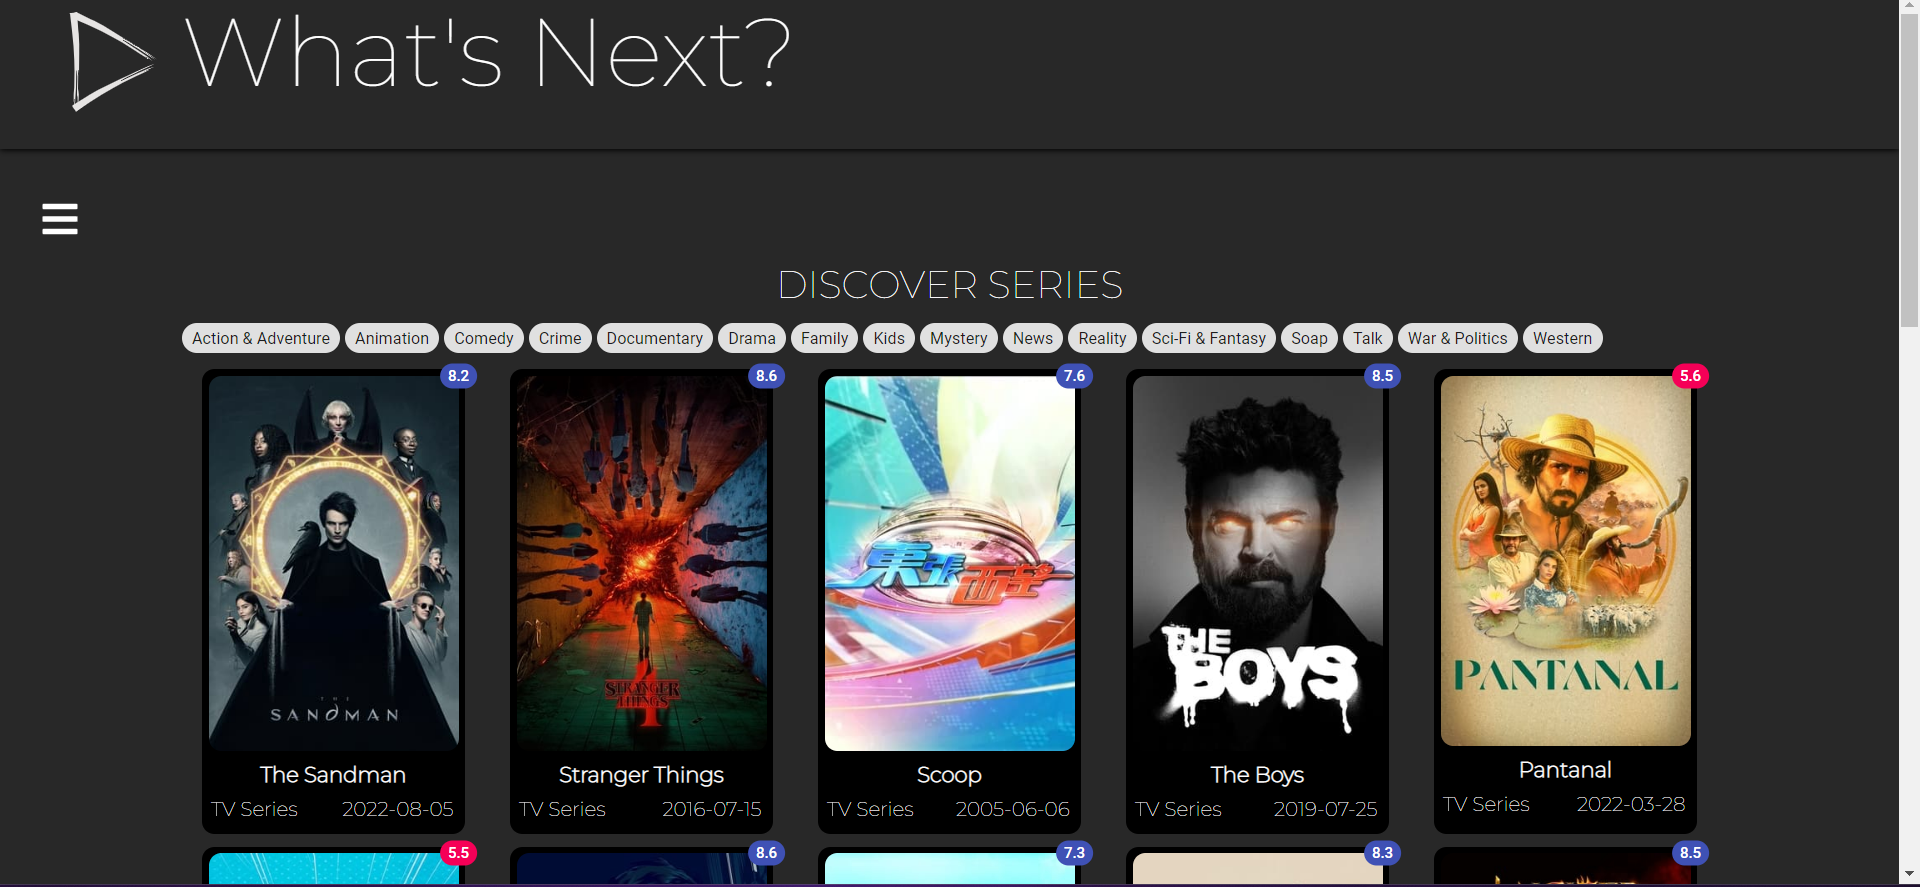
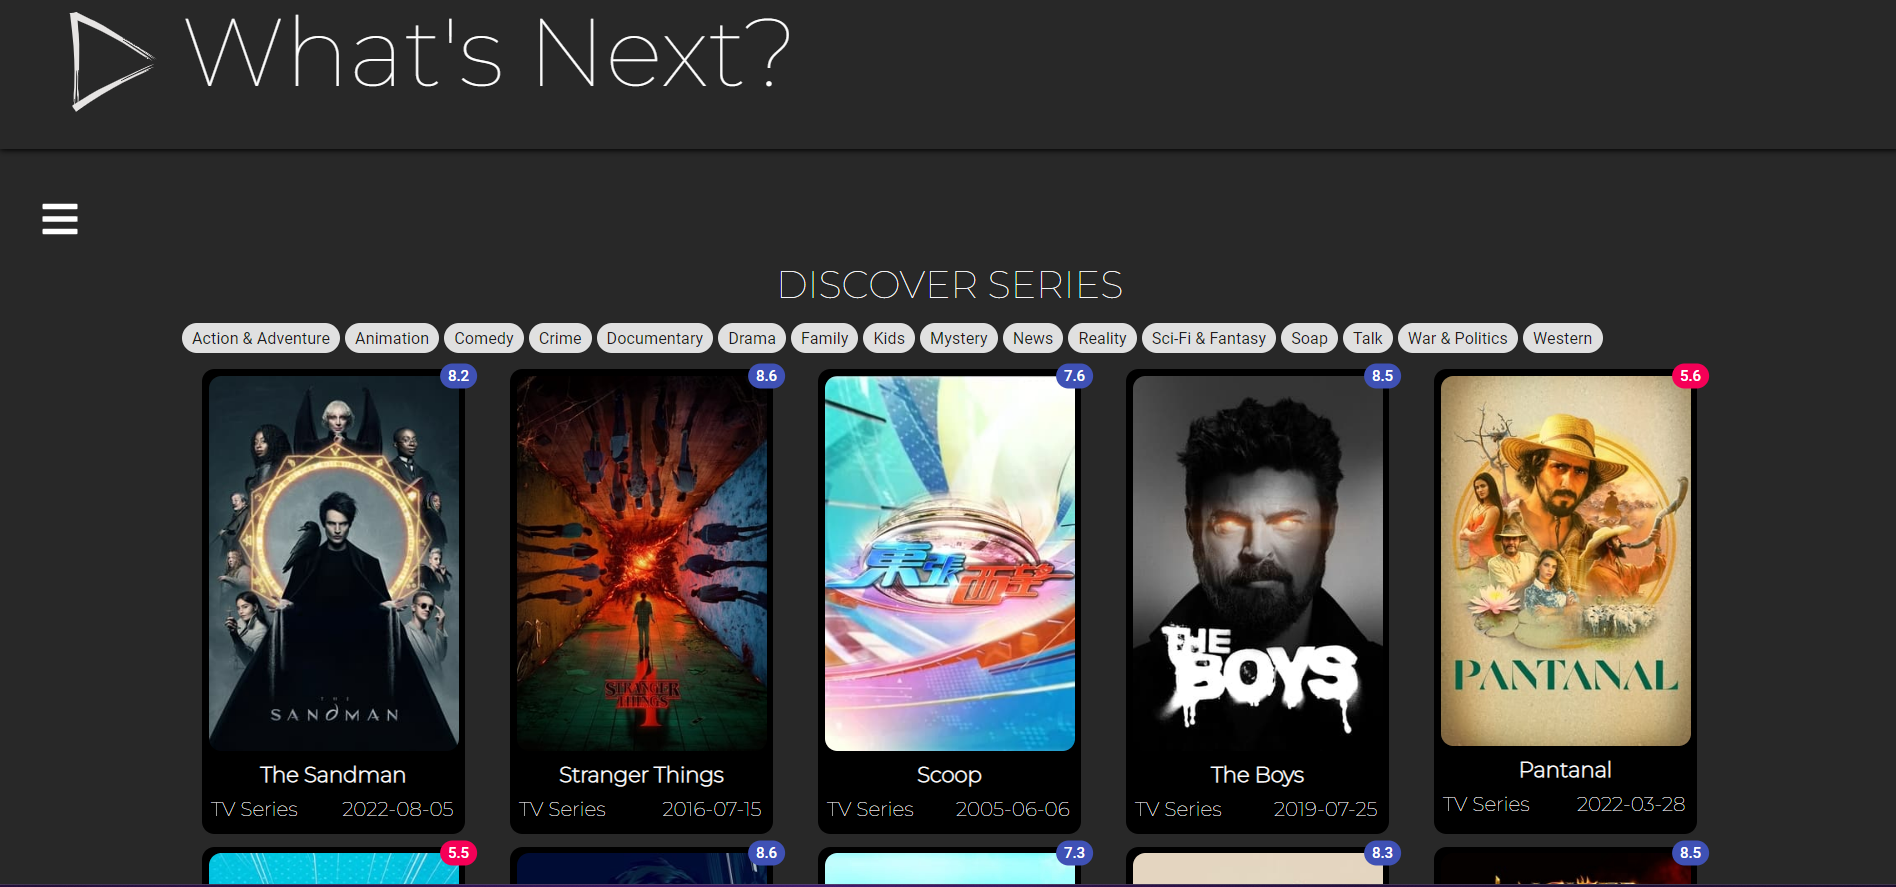
Header responsive added and some other styles fixed

diff --git a/src/components/Header/Header.tsx b/src/components/Header/Header.tsx
@@ -7,7 +7,10 @@ import { useEffect, useState } from "react";
 import Button from "../Button/Button";
 
 const Header = () => {
+  
+  const [isMobile, setIsMobile] = useState(false);
   const [isScrolled, setIsScrolled] = useState(false);
+  const [mobileMenuOpen, setMobileMenuOpen] = useState(false);
 
   useEffect(() => {
     const handleScroll = () => {
@@ -19,6 +22,10 @@ const Header = () => {
 
     return () => window.removeEventListener("scroll", handleScroll);
   }, []);
+
+  useEffect(() => {
+    setIsMobile(window.innerWidth < 768);
+  }, [])
 
   const smoothScroll = (e: React.MouseEvent<HTMLAnchorElement>) => {
     e.preventDefault();
@@ -33,42 +40,95 @@ const Header = () => {
   };
 
   return (
-    <header
-      className={`${styles.root} navbar navbar-expand-lg sticky-top ${
-        isScrolled && styles.scrolled
-      }`}
-      style={{ height: `100px` }}
-    >
-      <div className="container">
-        <Link href="/">
-          <div className="navbar-brand">
-            <Image
-              src="/assets/images/logo.png"
-              alt="Logo"
-              className="img-fluid"
-              width="300"
-              height="50"
+    <div className="sticky-top">
+      <header
+        className={`${styles.root} navbar navbar-expand-lg  position-relative ${
+          isScrolled && styles.scrolled
+        }`}
+        style={{ height: `100px` }}
+      >
+        <div className="container">
+          <Link href="/">
+            <div className="navbar-brand">
+              <Image
+                src="/assets/images/logo.png"
+                alt="Logo"
+                className="img-fluid"
+                width={isMobile ? 250 : 300}
+                height={isMobile ? 35 : 50}
+              />
+            </div>
+          </Link>
+          <div
+            className={`collapse navbar-collapse align-items-center justify-content-end`}
+          >
+            {navLinks.map((link) => (
+              <Link
+                key={link.id}
+                href={link.href}
+                onClick={smoothScroll}
+                className={styles.navLink}
+              >
+                <Typo className={styles.link} fontFamily="Oswald">
+                  {link.title}
+                </Typo>
+              </Link>
+            ))}
+            <Button
+              label="DOWNLOAD CV"
+              href="/assets/docs/Ashutosh_Mathore_Resume.pdf"
+              download
+              targetBlank
+              className="ms-5"
             />
           </div>
-        </Link>
-        <div className="collapse navbar-collapse align-items-center justify-content-end">
-          {navLinks.map((link) => (
-            <Link key={link.id} href={link.href} onClick={smoothScroll} className={styles.navLink}>
-              <Typo className={styles.link} fontFamily="Oswald">
-                {link.title}
-              </Typo>
-            </Link>
-          ))}
-          <Button
-            label="DOWNLOAD CV"
-            href="/assets/docs/Ashutosh_Mathore_Resume.pdf"
-            download
-            targetBlank
-            className="ms-5"
-          />
+        </div>
+        {isMobile && (
+          <button
+            className="btn position-absolute end-0 text-white"
+            onClick={() => setMobileMenuOpen(!mobileMenuOpen)}
+            style={{ zIndex: 1050 }}
+          >
+            <i
+              className={`${
+                !mobileMenuOpen ? "bi bi-list h3 m-2" : "bi bi-x-lg h3 m-2"
+              }`}
+              style={{ color: "#00ffc8 " }}
+            />
+          </button>
+        )}
+      </header>
+      <div
+        className={`position-absolute w-50 end-0 top-0 bg-dark ${
+          styles.mobileMenu
+        } ${mobileMenuOpen ? `${styles.mobileMenuOpen}` : ""}`}
+        style={{ zIndex: 1030, height: "max-content"  }}
+      >
+        <div className="container">
+          <div className={`d-flex flex-column align-items-center gap-3 py-5`}>
+            {navLinks.map((link) => (
+              <Link
+                key={link.id}
+                href={link.href}
+                onClick={smoothScroll}
+                className={styles.navLink}
+              >
+                <Typo className={styles.link} fontFamily="Oswald">
+                  {link.title}
+                </Typo>
+              </Link>
+            ))}
+            <Button
+              label="DOWNLOAD CV"
+              href="/assets/docs/Ashutosh_Mathore_Resume.pdf"
+              download
+              targetBlank
+              className="mt-3"
+            />
+          </div>
         </div>
       </div>
-    </header>
+    </div>
   );
 };
 

diff --git a/src/components/About/About.tsx b/src/components/About/About.tsx
@@ -39,7 +39,7 @@ const About = () => {
               </p>
               <div style={{ color: "#8891b0" }}>
                 <p>Other technologies I&apos;m interested in:</p>
-                <ul>
+                <ul style={{ textAlign: "start" }}>
                   <li>Node.js</li>
                   <li>MongoDB</li>
                   <li>Artificial Intelligence</li>

diff --git a/src/components/Header/Header.module.css b/src/components/Header/Header.module.css
@@ -55,3 +55,22 @@
   visibility: visible;
   width: 100%;
 }
+
+.mobileMenu {
+  opacity: 0;
+  visibility: hidden;
+  transform: translateY(-100%);
+  transition: all 0.3s ease;
+}
+
+.mobileMenuOpen {
+  opacity: 1;
+  visibility: visible;
+  transform: translateY(0%);
+}
+
+@media (max-width: 768px) {
+  .navLink {
+    margin-left: 0;
+  }
+}

diff --git a/src/components/Projects/Projects.tsx b/src/components/Projects/Projects.tsx
@@ -5,7 +5,7 @@ import styles from "./Projects.module.css";
 
 const Projects = () => {
   return (
-    <section id="projects" className="py-5" style={{ marginBottom: "3.5rem" }}>
+    <section id="projects" className={`${styles.root}`}>
       <div className="container">
         <Heading title="PROJECTS" />
         <div className="row">

diff --git a/src/components/Contact/Contact.tsx b/src/components/Contact/Contact.tsx
@@ -90,7 +90,7 @@ const Contact = () => {
               htmlFor="email"
               className={`${styles["form-label"]} form-label`}
             >
-              Email address
+              Email
             </label>
             <input
               type="email"

diff --git a/src/components/Projects/Projects.module.css b/src/components/Projects/Projects.module.css
@@ -1,8 +1,16 @@
+.root {
+  margin-bottom: 4rem;
+}
+
 .project {
   margin: 20px auto;
 }
 
-@media only screen and (min-width: 768px) {
+@media (min-width: 768px) {
+  .root {
+    margin-bottom: 10rem;
+  }
+
   .project {
     width: 75%;
   }

diff --git a/src/components/Introduction/Introduction.module.css b/src/components/Introduction/Introduction.module.css
@@ -6,8 +6,7 @@
 
 @media screen and (max-width: 768px) {
   .root {
-    height: calc(100vh - 200px);
-    /* margin-bottom: 5rem; */
+    min-height: -webkit-fill-available;
     margin-left: 0;
   }
 }

diff --git a/src/styles/globals.css b/src/styles/globals.css
@@ -103,3 +103,7 @@ body {
   transform-origin: left bottom;
   transform: perspective(1000px) rotateX(-10deg) rotateY(10deg) rotateZ(2deg);
 }
+
+.btn:hover {
+  border: none;
+}

diff --git a/src/components/Button/Button.module.css b/src/components/Button/Button.module.css
@@ -16,3 +16,10 @@
   -webkit-transition: 0.5s;
   transition: 0.5s;
 }
+
+@media (max-width: 768px) {
+  .button {
+    margin-left: auto;
+    margin-right: auto;
+  }
+}

diff --git a/src/components/Heading/Heading.module.css b/src/components/Heading/Heading.module.css
@@ -22,7 +22,7 @@
 
 @media only screen and (max-width: 768px) {
   .heading {
-    margin-bottom: 5rem;
+    margin-bottom: 2rem;
   }
 
   .heading::before {

diff --git a/src/components/About/About.module.css b/src/components/About/About.module.css
@@ -10,6 +10,7 @@
 
 @media (max-width: 767px) {
   .root {
+    margin-bottom: 4rem;
     width: 80%;
   }
   .aboutText {
